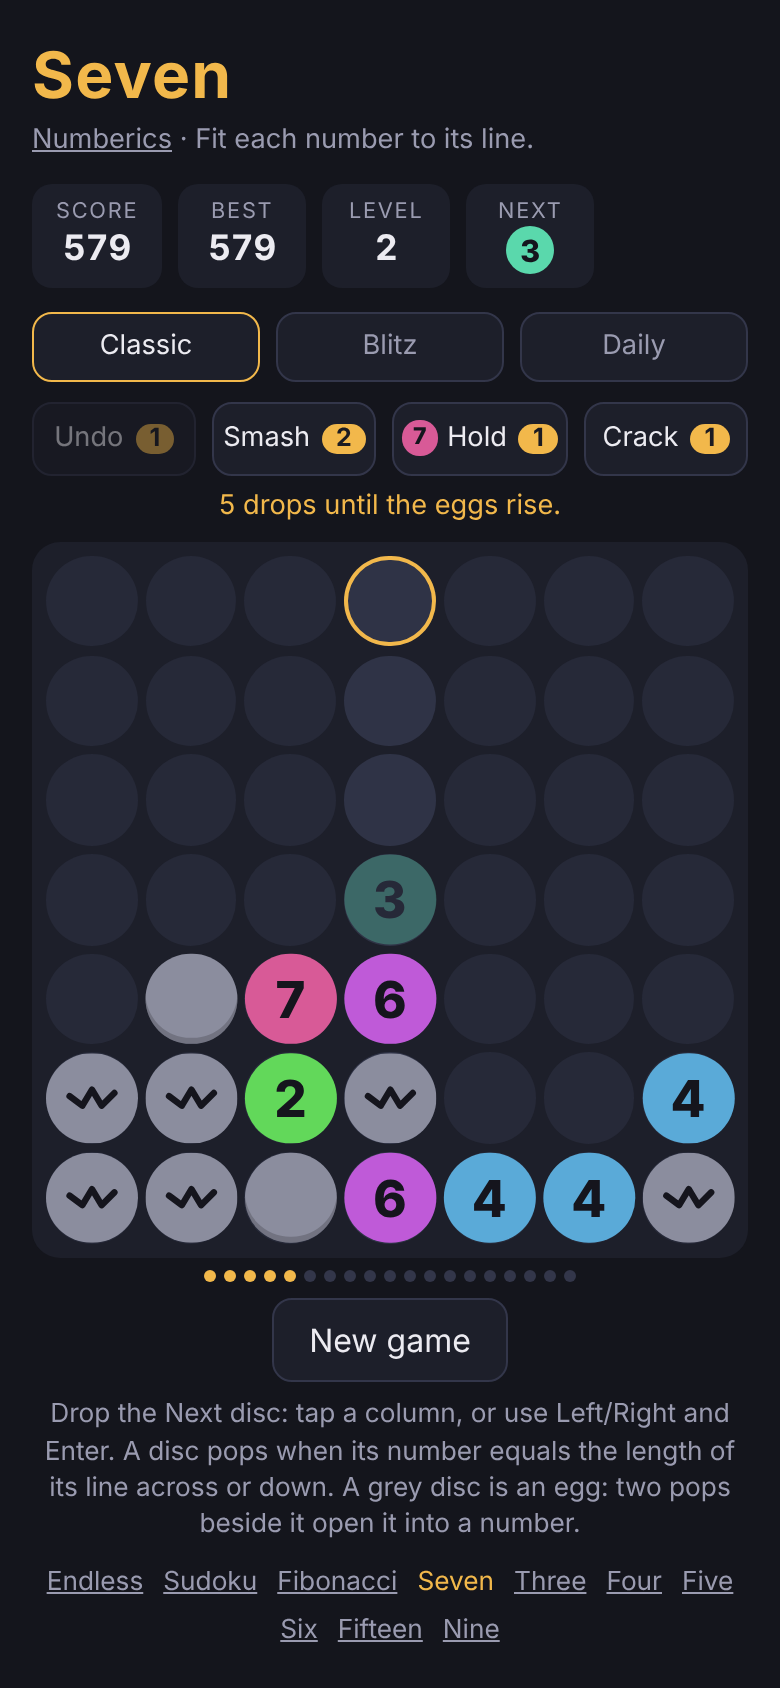
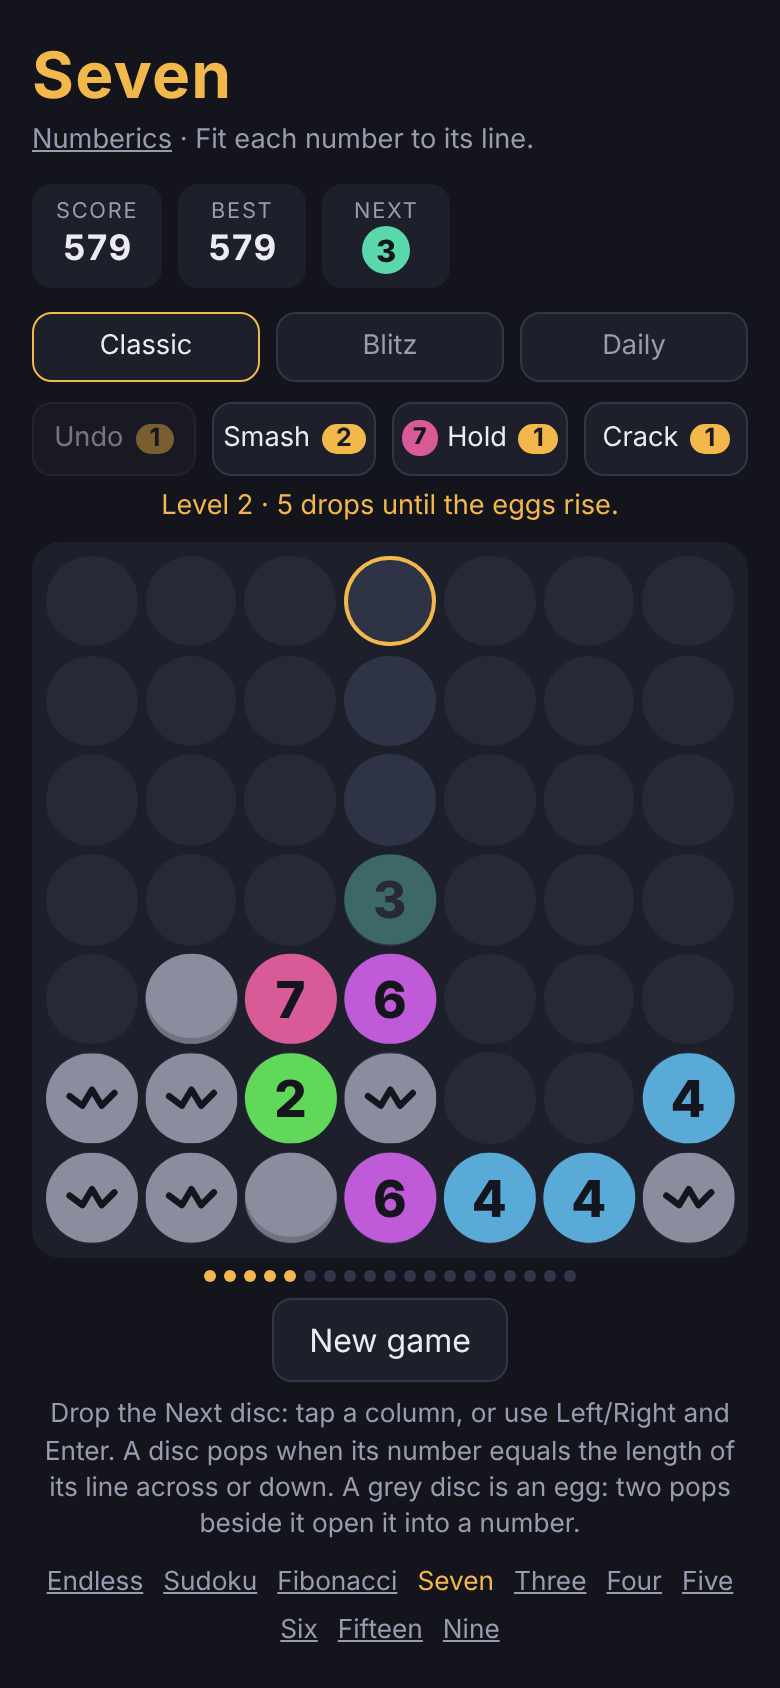
Seven: round 1 fixes
Undo counted as a power-up; no power-ups after the run ends; the overflow
leaves the last well and rings the discs pushed out, with See the well; eggs
explained; Crack arms before it fires; keyboard Smash; level in the hint line;
page fits 390x844; Daily best is per day.

diff --git a/seven/game.js b/seven/game.js
@@ -133,12 +133,11 @@
     if (state.over) return !viewing ? "" : N.hasRoom(state.grid) ? "Ringed discs were pushed out. Tap for the summary."
       : "Full, and no power-up can act. Tap for the summary.";
     if (!N.hasRoom(state.grid)) return "The well is full. Use a power-up to make room.";
-    return state.left === 1 ? "Eggs rise after this drop." : state.left + " drops until the eggs rise.";
+    return "Level " + state.level + " · " + (state.left === 1 ? "eggs rise after this drop." : state.left + " drops until the eggs rise.");
   }
   function renderChrome() {
     showScore();
     var nx = $("next"); nx.textContent = ""; nx.appendChild(mini(state.next));
-    $("level").textContent = String(state.level);
     var pips = $("pips"), total = N.dropsFor(state.mode, state.level); pips.textContent = "";
     for (var k = 0; k < total; k++) { var p = document.createElement("i"); if (k >= state.left) p.className = "used"; pips.appendChild(p); }
     pips.title = state.left + " drops until the eggs rise";

diff --git a/seven/index.html b/seven/index.html
@@ -21,7 +21,6 @@
     <div class="stats" aria-live="off">
       <div class="stat"><span>Score</span><b id="score">0</b></div>
       <div class="stat"><span>Best</span><b id="best">0</b></div>
-      <div class="stat"><span>Level</span><b id="level">1</b></div>
       <div class="stat" title="The next disc. A plain grey disc is an egg."><span>Next</span><b id="next" class="next"></b></div>
     </div>
   </header>
